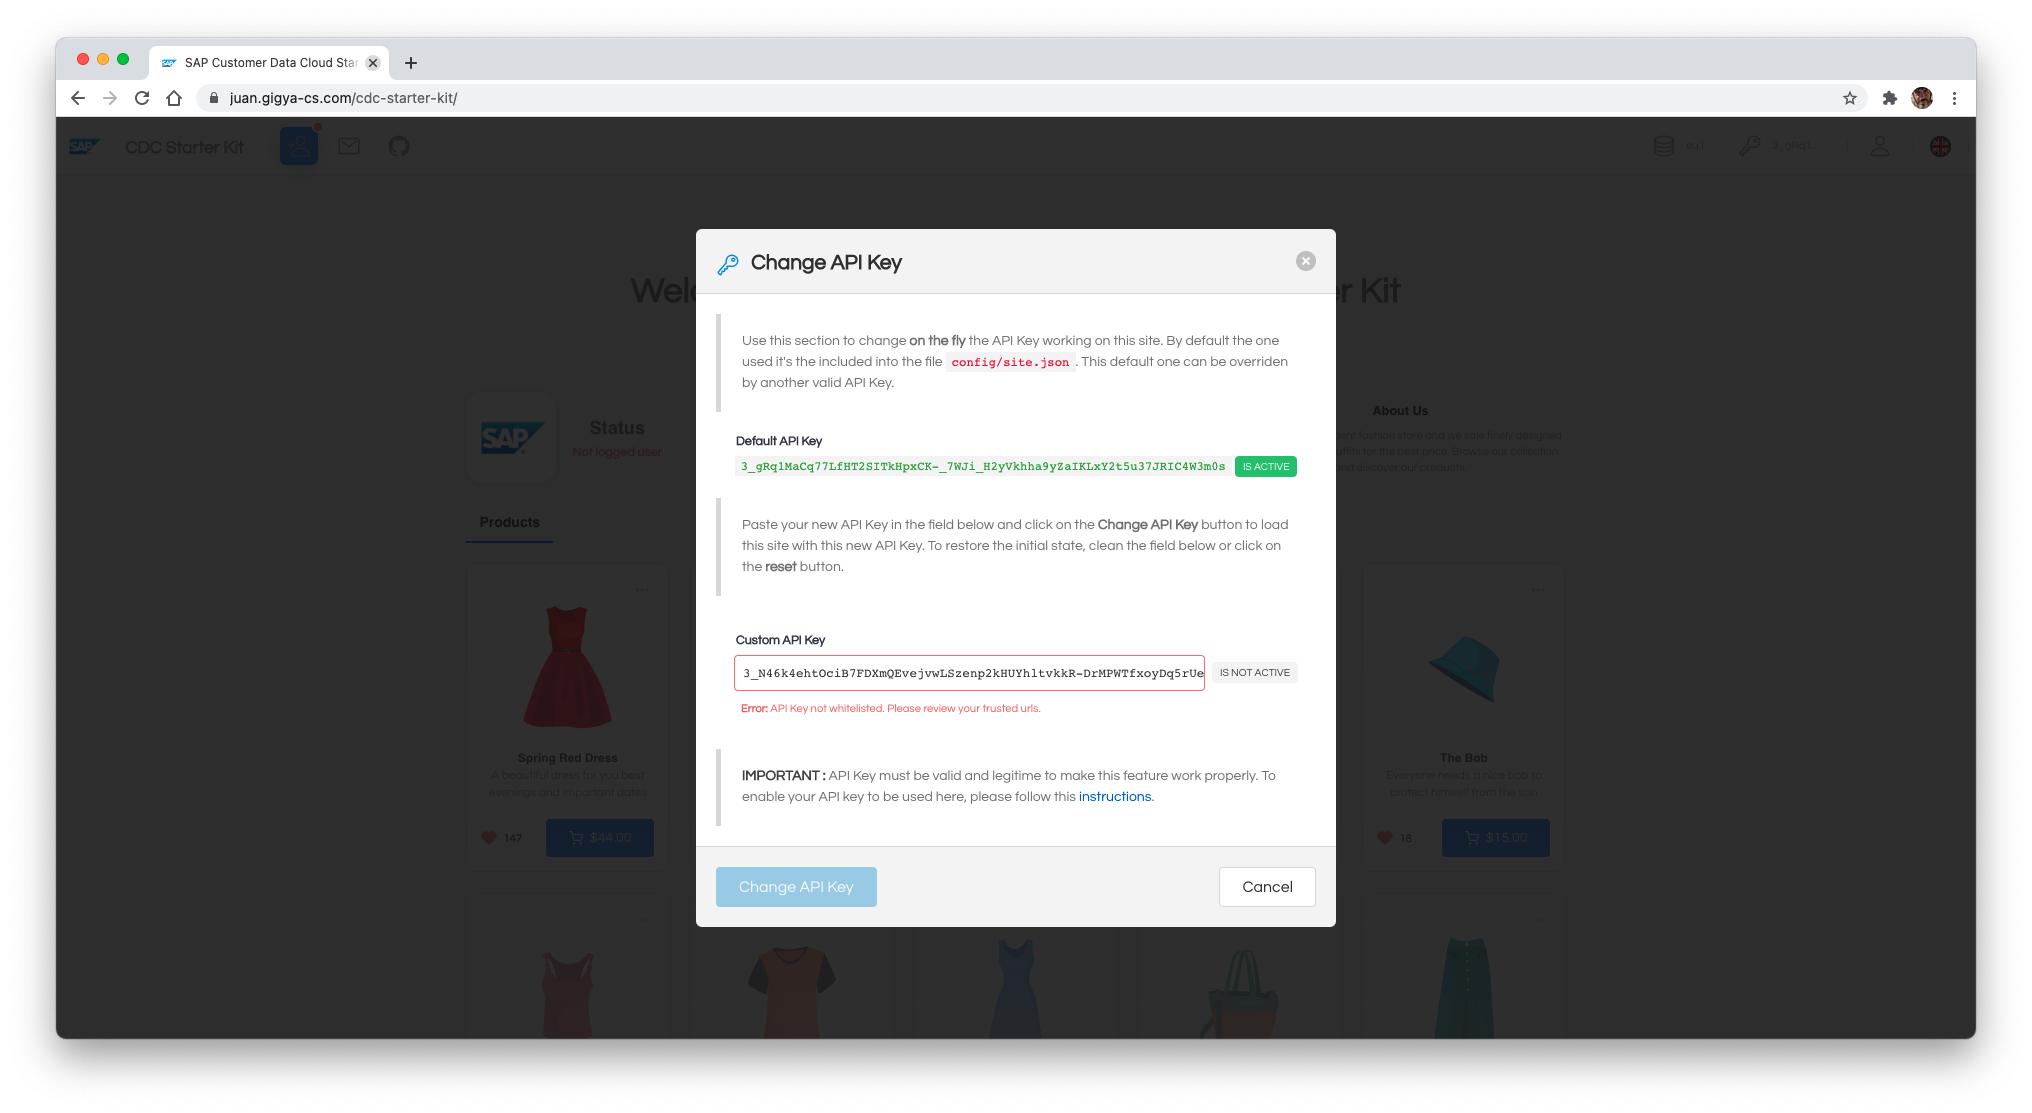
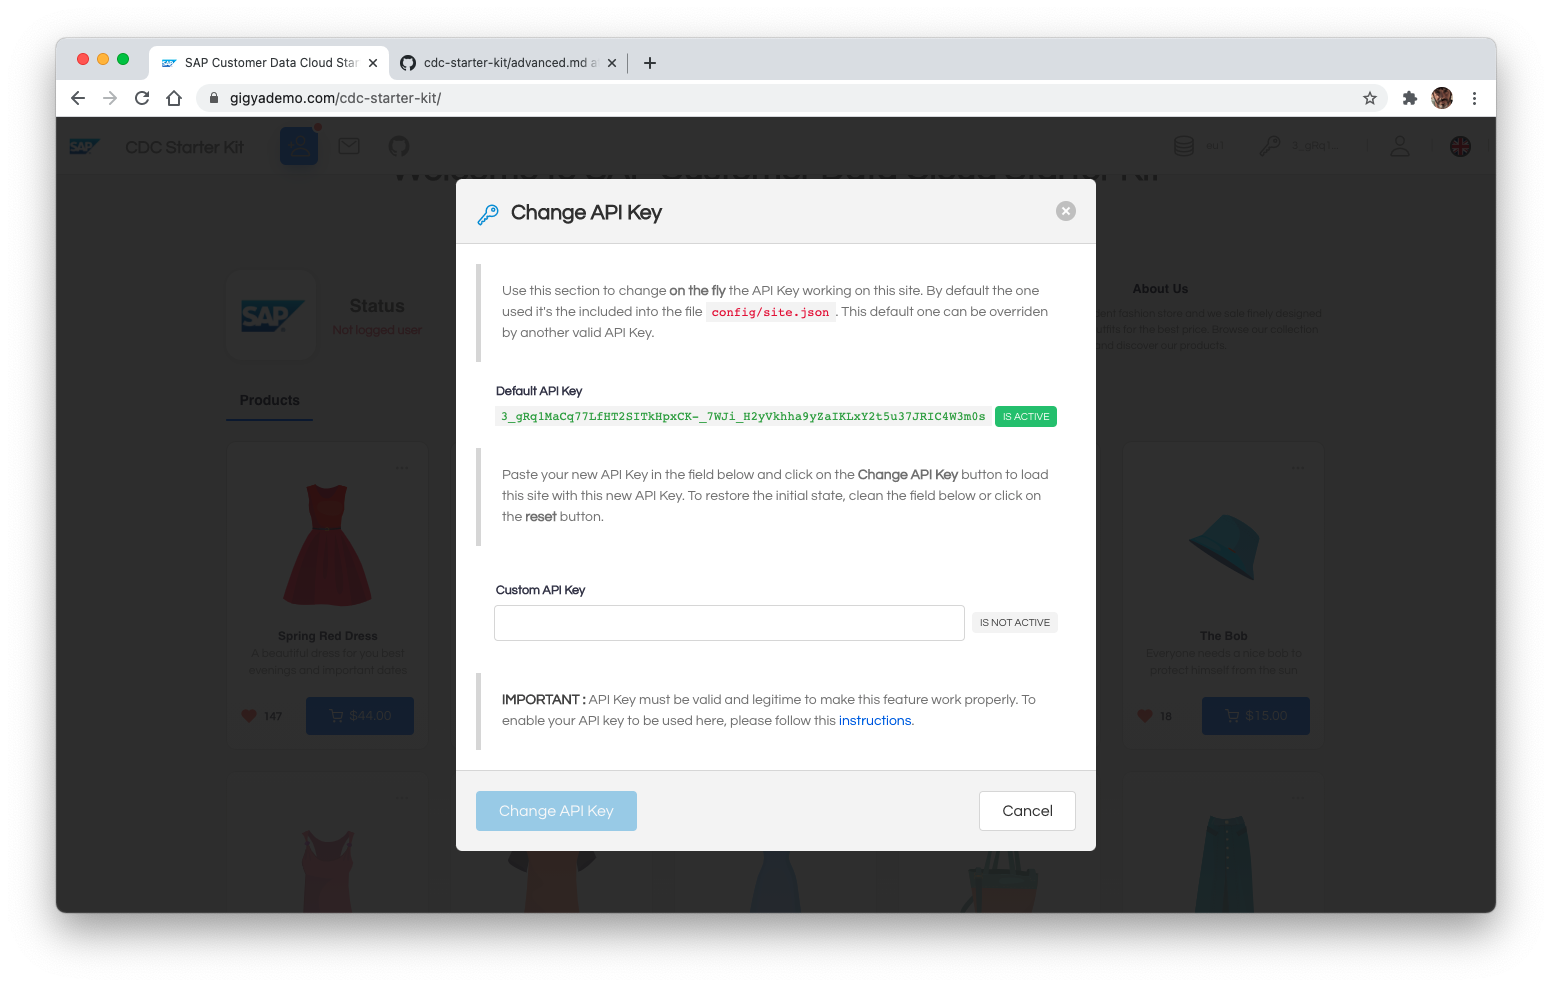
Updated advanced guide

diff --git a/docs/advanced.md b/docs/advanced.md
@@ -272,7 +272,7 @@ After that, wait few minutes (between 5-120 mins) to have these changes availabl
 
 From that moment, this API key will be valid to be used inside the https://gigyademo.com/cdc-starter-kit, using the Dynamic load capability (Clicking over the API key Icon in the Navigation bar).
 
-[![Add Gigya Demo url](img/advanced/3-dynamic-load-on.png)](https://juan.gigya-cs.com/cdc-starter-kit/)
+[![Add Gigya Demo url](img/advanced/3-dynamic-load-on-full-bar.png)](https://juan.gigya-cs.com/cdc-starter-kit/)
 
 
 ## 4. What else.
